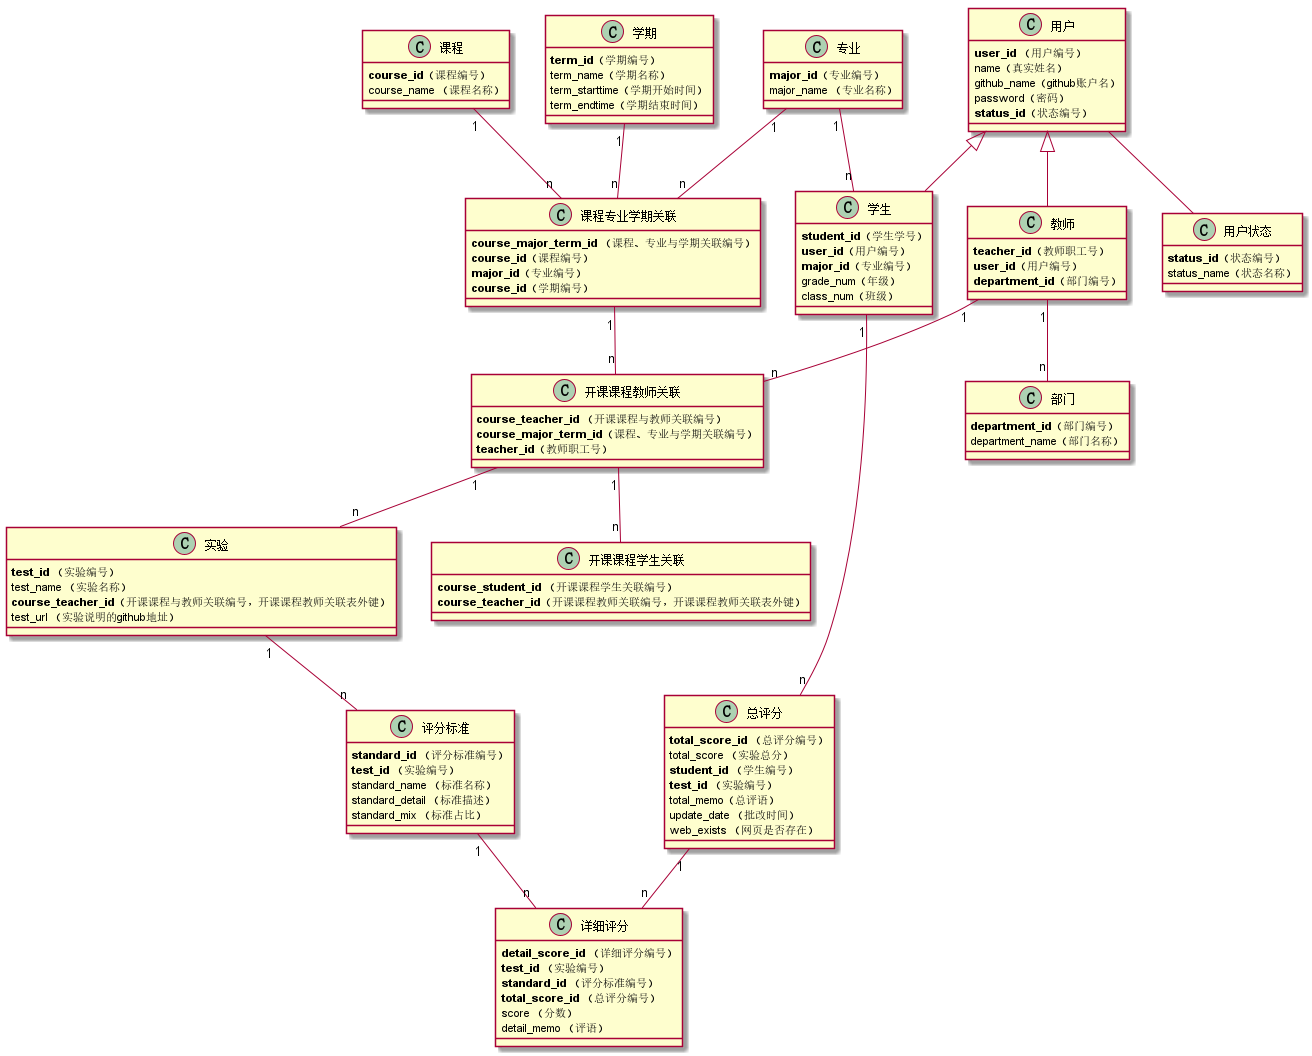
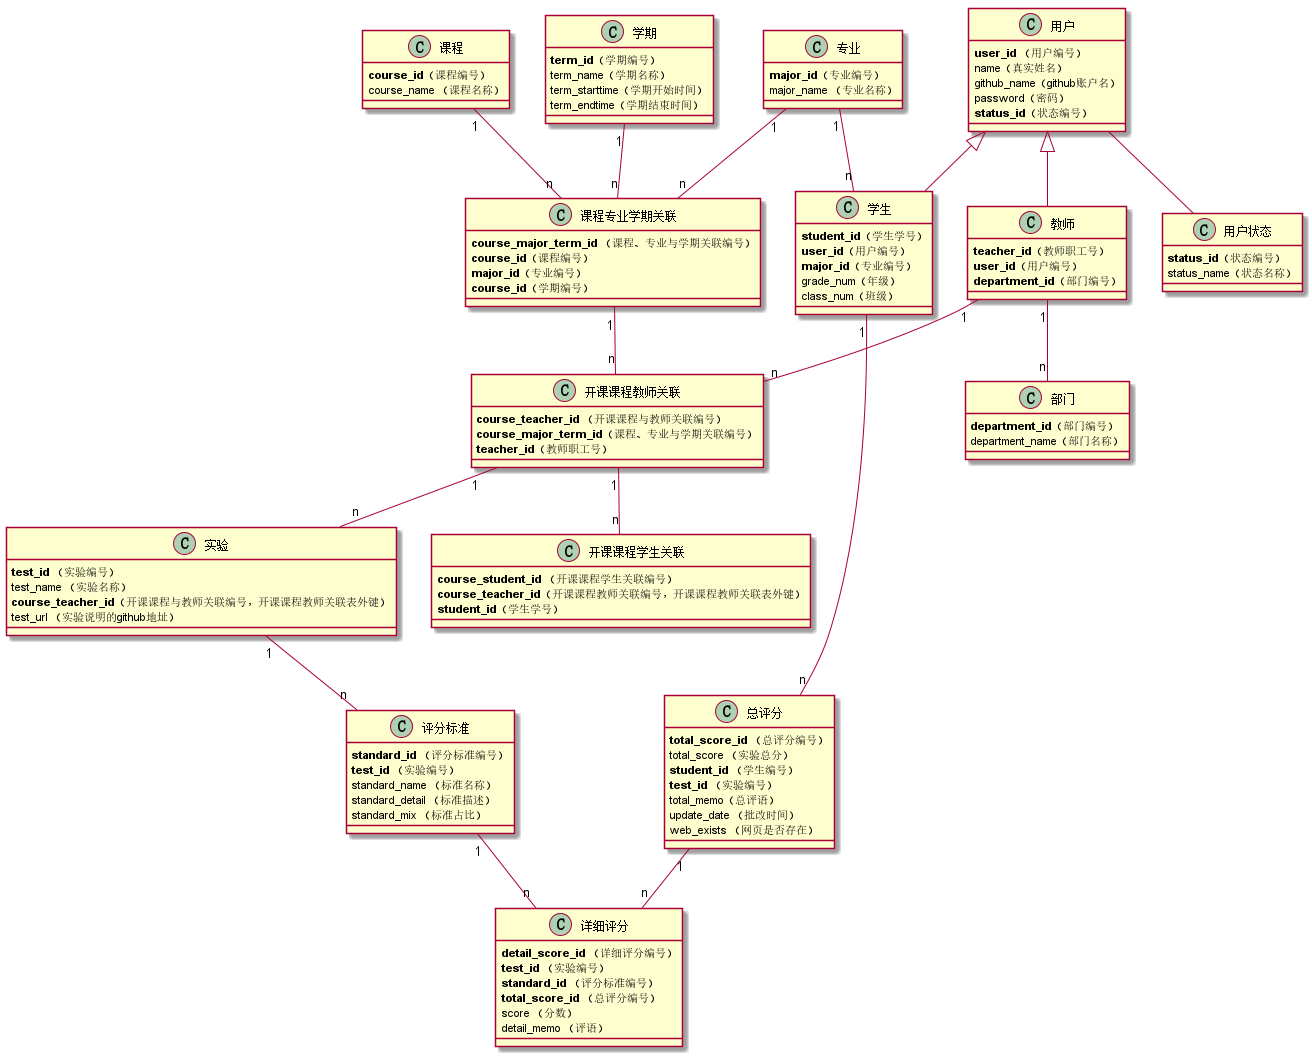
实验六第十次提交

Changed region(s): [[0.3125, 0.5, 0.625, 0.625]]

diff --git a/test6/README.md b/test6/README.md
@@ -1,13 +1,23 @@
 # 基于GitHub的实验管理平台的分析与设计
 
+#### 成都大学信息科学与工程学院
+|学号|班级|姓名|照片|
+|:---|:---|:---|:---|
+|201610414422|软件(本)16-4|肖清宇|![肖清宇的照片](./肖清宇201610414422.jpg)|
+
 ## 1.概述
 
 - 基于GitHub的实验管理平台的作用是在线管理实验成绩的Web应用系统。学生和老师的实验内容均存放在GitHUB 页面上。
-- 
+- 学生的功能主要有：一是设置自己的GitHub用户名，二是查询自己的实验成绩,三是选择课程，四是查看实验。学生的GitHub用户名是公开的，但成绩不公开。
+- 老师的功能主要有：一是批改每个学生的成绩，二是查看每个学生的成绩，三是选择课程。四是发布实验。
+- 老师和学生都能通过本系统的链接方便地跳转到学生的每个GitHUB实验目录，以便批改实验或者查看实验情况。
+- 老师可以对每个发布实验自定义评分标准，评分标准动态设定。
+- 实验成绩按数字分数计算，每项实验的满分为100分，最低为0分。
+- 系统自动计算每个学生的所有实验的平均分。
 ## 2.系统总体结构 
 ![总体设计](总体设计.png)
 ## 3.用例图设计 [源码](源码/总设计.puml)
-![用例图设计](总设计.png)
+![用例图设计](总设计-1.png)
 ## 4.类图设计 [源码](源码/类图.puml)
 ![类图设计](类图.png)
 ## 5.数据库设计

diff --git a/test6/用例/查看课程.md b/test6/用例/查看课程.md
@@ -11,8 +11,8 @@
 |主事件流|1.查询需要查看课程的相关信息|
 |备选事件流|1a.查询数据出错<br>&nbsp;&nbsp; 1.系统提示查询数据出错|
 
-## 2. 业务流程
-无
+## 2. 业务流程 [源码](../源码/查看课程.puml)
+![查看课程](../查看课程.png) 
 
 ## 3. 界面设计
 - 界面参照: https://Everythingtomyheart.github.io/is_analysis_pages/test6/ui/查看课程.html
@@ -20,7 +20,7 @@
     - 接口1：[getCourseByTeacher](../接口/getCourseByTeacher.md)
     - 接口2：[getCourseByStudent](../接口/getCourseByStudent.md)
 ## 4. 算法描述
-    
+    无
 ## 5. 参照表
 
 - [TEACHERS](../DB/README.md/#TEACHERS)

diff --git a/test6/用例/查看实验.md b/test6/用例/查看实验.md
@@ -11,8 +11,8 @@
 |主事件流| 1. 查询实验信息|
 |备选事件流|1a.查询失败 <br>&nbsp;&nbsp; 1.系统提示查询失败|
 
-## 2. 业务流程
-无
+## 2. 业务流程 [源码](../源码/查看实验.puml)
+![查看实验](../查看实验.png) 
 
 ## 3. 界面设计
 - 界面参照: https://Everythingtomyheart.github.io/is_analysis_pages/test6/ui/查询实验.html
@@ -20,7 +20,8 @@
     - 接口1：[getCourseAllTests](../接口/getCourseAllTests.md)
 
 ## 4. 算法描述
-    
+    无
 ## 5. 参照表
 - [COURSE_TEACHER](../DB/README.md/#COURSE_TEACHER)
+- [COURSE_STUDENTS](../DB/README.md/#COURSE_STUDENTS)
 - [TESTS](../DB/README.md/#TESTS)

diff --git a/test6/用例/查看学生信息.md b/test6/用例/查看学生信息.md
@@ -11,8 +11,8 @@
 |主事件流| 1. 查询当前实验下的全部学生信息|
 |备选事件流|1a.查询失败 <br>&nbsp;&nbsp; 1.系统提示查询失败|
 
-## 2. 业务流程
-无
+## 2. 业务流程 [源码](../源码/查看学生信息.puml)
+![查看学生信息](../查看学生信息.png)
 
 ## 3. 界面设计
 - 界面参照: https://Everythingtomyheart.github.io/is_analysis_pages/test6/ui/查看学生信息.html
@@ -20,7 +20,7 @@
     - 接口1：[getCourseTestAllStudents](../接口/getCourseTestAllStudents.md)
 
 ## 4. 算法描述
-    
+    无
 ## 5. 参照表
 
 - [STUDENTS](../DB/README.md/#STUDENTS)

diff --git a/test6/DB/README.md b/test6/DB/README.md
@@ -98,8 +98,9 @@
 ### 11.开课课程学生关联表  COURSE_STUDENTS
 |字段|类型|主键、外键|可以为空|默认值|约束|说明|
 |:---|:---|:---|:---|:---|:---|:---|
-|course_student_id|NUMBER(12,0)|主键|否| | |课程、专业与学期关联编号|
+|course_student_id|NUMBER(12,0)|主键|否| | |开课课程与学生关联编号|
 |course_teacher_id|NUMBER(12,0)|外键|否| | |开课课程教师关联id，开课课程教师关联表外键|
+|student_id|NUMBER(12,0)|外键|否| | |学生id，学生表外键|
 
 <div id="TESTS"></div>
 

diff --git a/test6/用例/修改密码.md b/test6/用例/修改密码.md
@@ -11,7 +11,7 @@
 |备选事件流|1a.用户旧密码与数据库存储密码不符<br/>&nbsp;&nbsp; 1.系统提示旧密码不正确  <br/>&nbsp;&nbsp; 2. 用户重新填写并提交。<br>2a. 用户两次输入的密码不同 <br/>&nbsp;&nbsp; 1.系统提示两次输入的密码不相同  <br/>&nbsp;&nbsp; 2. 用户重新填写并提交。 |
 
 ## 2. 业务流程
-无
+    无
 
 ## 3. 界面设计
 - 界面参照: https://Everythingtomyheart.github.io/is_analysis_pages/test6/ui/修改密码.html

diff --git a/test6/用例/登出.md b/test6/用例/登出.md
@@ -12,7 +12,7 @@
 |备选事件流|1a. 如果用户登录之后，长时间不超作界面，导致Cookie失效 <br/>&nbsp;&nbsp; 1.系统清除客户端登录信息（Cookie|
 
 ## 2. 业务流程
-无
+    无
 
 ## 3. 界面设计
 - 界面参照: https://Everythingtomyheart.github.io/is_analysis_pages/test6/ui/登出_顶部菜单.html
@@ -20,7 +20,7 @@
     - 接口1：[loginout](../接口/loginout.md)
 
 ## 4. 算法描述
-    
+    无
 ## 5. 参照表
 
 - [USERS](../DB/README.md/#USERS)

diff --git a/test6/用例/登录.md b/test6/用例/登录.md
@@ -13,7 +13,7 @@
 |备选事件流|1a. 输入的用户名或者密码为空 <br/>&nbsp;&nbsp; 1.提示重新输入 <br/> &nbsp;&nbsp; 2.访客重新提交登录信息 <br/>2a.系统判断用户名，密码，用户角色类不正确，不允许登录 <br/>&nbsp;&nbsp; 1.提示重新输入 <br/> &nbsp;&nbsp; 2.访客重新提交登录信息 |
 
 ## 2. 业务流程
-无
+    无
 
 ## 3. 界面设计
 - 界面参照: https://Everythingtomyheart.github.io/is_analysis_pages/test6/ui/登录.html

diff --git a/test6/用例/修改用户信息.md b/test6/用例/修改用户信息.md
@@ -11,7 +11,7 @@
 |备选事件流|1a. 如果用户输入的GitHub用户名称为空 <br/>&nbsp;&nbsp; 1.系统清空用户的GitHub用户名称 <br>&nbsp;&nbsp; 2.提示重新输入|
 
 ## 2. 业务流程
-无
+    无
 
 ## 3. 界面设计
 - 界面参照: https://Everythingtomyheart.github.io/is_analysis_pages/test6/ui/修改用户信息.html

diff --git a/test6/用例/选择课程.md b/test6/用例/选择课程.md
@@ -30,7 +30,7 @@
     - 接口3：[setTeacherSelectCourse](../接口/setTeacherSelectCourse.md)
     - 接口4：[setStudentSelectCourse](../接口/setStudentSelectCourse.md)
 ## 4. 算法描述 
-    
+    无
 ## 5. 参照表
 - [USERS](../DB/README.md/#USERS)
 - [TEACHERS](../DB/README.md/#TEACHERS)

diff --git a/test6/用例/发布实验.md b/test6/用例/发布实验.md
@@ -19,7 +19,7 @@
     - 接口1：[setNewCourseTest](../接口/setNewCourseTest.md)
     
 ## 4. 算法描述 
-    
+    无
 ## 5. 参照表
 - [TESTS](../DB/README.md/#TESTS)
 - [STANDARDS](../DB/README.md/#STANDARDS)

diff --git a/test6/用例/查看用户信息.md b/test6/用例/查看用户信息.md
@@ -11,7 +11,7 @@
 |备选事件流| |
 
 ## 2. 业务流程
-无
+    无
 
 ## 3. 界面设计
 - 界面参照: https://Everythingtomyheart.github.io/is_analysis_pages/test6/ui/查看用户信息.html
